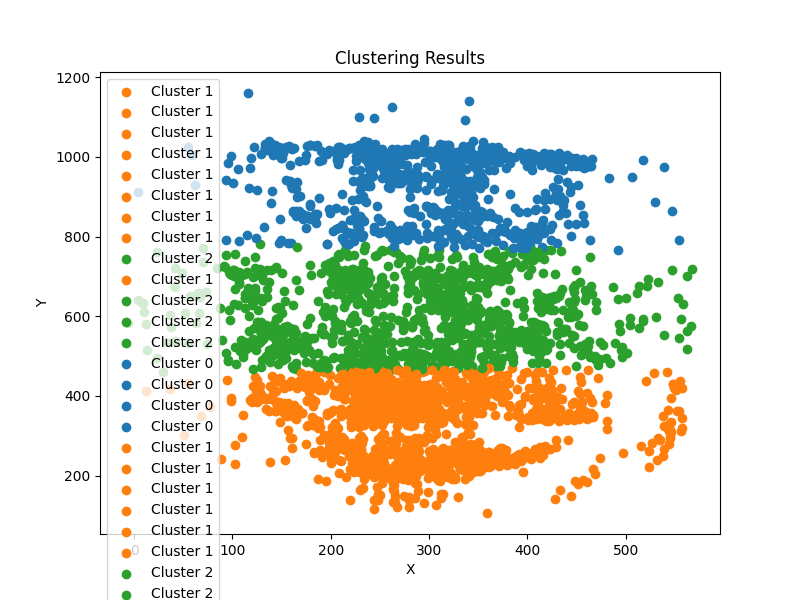
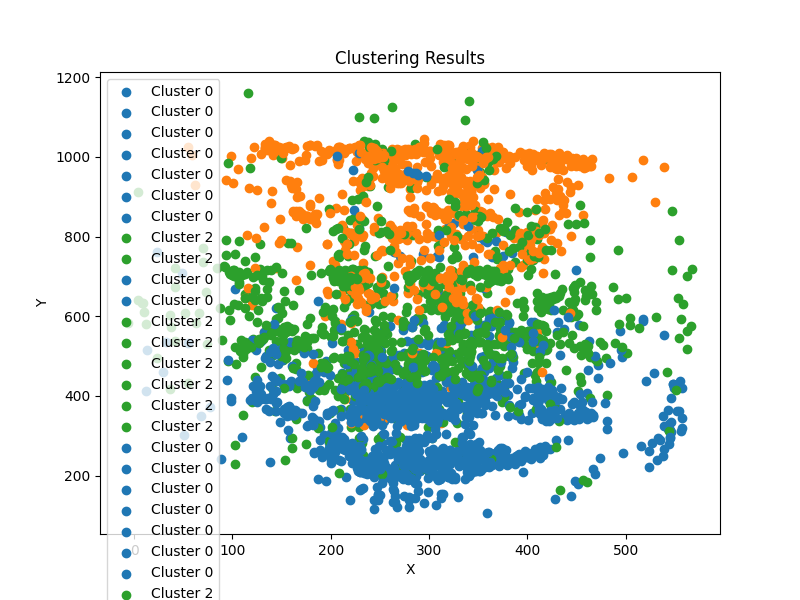
とりあえずオプティカルフロー動く

diff --git a/clustering/python/main.py b/clustering/python/main.py
@@ -4,6 +4,7 @@ import numpy as np
 from sklearn.cluster import KMeans
 import matplotlib.pyplot as plt
 
+# JSONファイルからキーポイントデータを読み込む関数
 def load_keypoints_from_json(folder_path):
     all_keypoints = []
     for class_name in os.listdir(folder_path):
@@ -16,32 +17,44 @@ def load_keypoints_from_json(folder_path):
                         data = json.load(f)
                         video_keypoints = []
                         for pose in data:
-                            for kp in pose['keypoints']:
-                                video_keypoints.append([kp['x'], kp['y']])
+                            keypoints = [[kp['x'], kp['y']] for kp in pose['keypoints']]
+                            video_keypoints.append(keypoints)
                         all_keypoints.append(video_keypoints)
     return all_keypoints
 
+# キーポイントデータを平坦化する関数
 def flatten_keypoints(keypoints):
-    return [kp for video in keypoints for kp in video]
+    return [kp for video in keypoints for frame in video for kp in frame]
 
-def cluster_and_save_results(keypoints, output_dir):
-    flattened_keypoints = flatten_keypoints(keypoints)
-    kmeans = KMeans(n_clusters=3, random_state=0).fit(flattened_keypoints)
+# キーポイントからオプティカルフローを計算する関数
+def calculate_optical_flow_from_keypoints(keypoints):
+    optical_flows = []
+    for video_keypoints in keypoints:
+        video_flows = []
+        for i in range(len(video_keypoints) - 1):
+            prev_keypoints = video_keypoints[i]
+            next_keypoints = video_keypoints[i + 1]
+            # キーポイントの数が一致している場合のみオプティカルフローを計算
+            if len(prev_keypoints) == len(next_keypoints):
+                flows = [np.array([nx - px, ny - py]) for (px, py), (nx, ny) in zip(prev_keypoints, next_keypoints)]
+                video_flows.append(flows)
+        optical_flows.append(video_flows)
+    return optical_flows
 
-    # Assign cluster labels to each video
-    video_labels = []
-    start_index = 0
-    for video in keypoints:
-        end_index = start_index + len(video)
-        video_label = kmeans.labels_[start_index:end_index]
-        video_labels.append(video_label.tolist())  # Convert ndarray to list
-        start_index = end_index
 
-    # Save cluster labels for each video
-    result_file = os.path.join(output_dir, 'cluster_labels.json')
-    with open(result_file, 'w') as f:
-        json.dump(video_labels, f)
+# キーポイントとオプティカルフローを組み合わせてクラスタリングする関数
+def perform_clustering_with_optical_flow(keypoints, optical_flows):
+    # 最初のフレームのキーポイントを削除して長さを合わせる
+    adjusted_keypoints = [video[1:] for video in keypoints]
+    flattened_keypoints = flatten_keypoints(adjusted_keypoints)
+    flattened_flows = flatten_keypoints(optical_flows)
+    features = np.hstack((flattened_keypoints, flattened_flows))
+    kmeans = KMeans(n_clusters=3, random_state=0).fit(features)
+    return kmeans
 
+
+# クラスタリング結果を保存する関数
+def save_results(kmeans, flattened_keypoints, output_dir):
     # Save clustering result as an image
     plt.figure(figsize=(8, 6))
     for i, label in enumerate(kmeans.labels_):
@@ -53,9 +66,13 @@ def cluster_and_save_results(keypoints, output_dir):
     plt.savefig(os.path.join(output_dir, 'clustering_result.png'))
     plt.close()
 
+# メイン関数
 def main(input_dir, output_dir):
     keypoints = load_keypoints_from_json(input_dir)
-    cluster_and_save_results(keypoints, output_dir)
+    optical_flows = calculate_optical_flow_from_keypoints(keypoints)
+    kmeans = perform_clustering_with_optical_flow(keypoints, optical_flows)
+    flattened_keypoints = flatten_keypoints(keypoints)
+    save_results(kmeans, flattened_keypoints, output_dir)
 
 if __name__ == '__main__':
     py_dir = 'clustering/python/'
